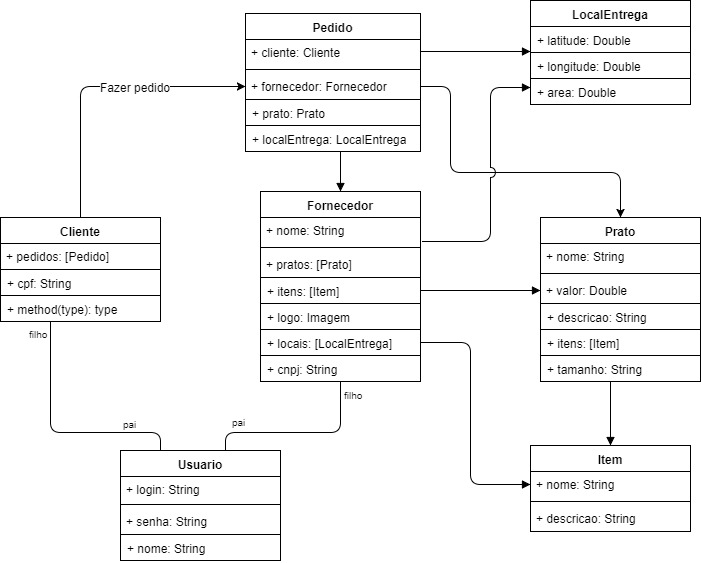
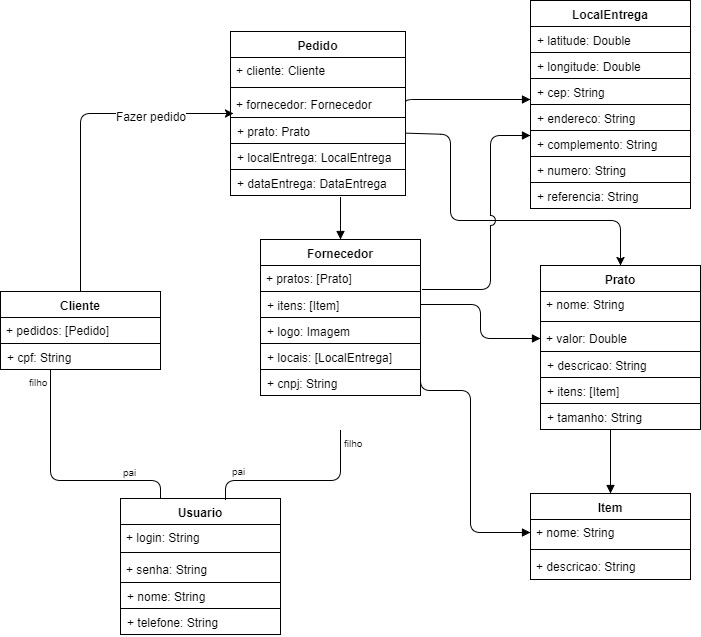
criação das classes e alteração no modelo

diff --git a/server/models/localEntregaModel.ts b/server/models/localEntregaModel.ts
@@ -1,0 +1,71 @@
+class LocalEntrega{
+ 	private _endereco:string;
+  private _cep:string;
+	private _referencia:string;
+	private _numero:string;
+	private _complemento:string;
+  private _latitude:double;
+	private _longitude:double;
+	
+  constructor (_endereco:string,_cep:string,_referencia:string,_numero:string,_complemento:string,_latitude:double,_longitude:double){
+    this._endereco = _endereco;
+    this._cep = _cep;
+    this._referencia = _referencia;
+    this._numero = _numero;
+    this._complemento = _complemento;
+    this._latitude = _latitude;
+    this._longitude = _longitude;
+    
+  }
+
+	get endereco() : string{
+    return this._endereco;
+  }
+
+	set endereco(e : string){
+   this._endereco = e; 
+  }
+  
+	get cep(): string {
+  	return this._cep;
+  }
+
+	set cep(_cep:string){
+  	this._cep=_cep;
+  }
+
+	get referencia(): string {
+  	return this._referencia;
+  }
+
+	set referencia(_referencia:string){
+  	this._referencia=_referencia;
+  }
+
+	get numero() : string{
+    return this._numero;
+  }
+
+	set numero(e : string){
+   this._numero = e; 
+  }
+    
+	get complemento(): string{
+  	return this._complemento;
+  }
+	set complemento(_complemento:string){
+  	this._complemento=_complemento;
+  }
+  get latitude(): string{
+  	return this._latitude;
+  }
+	set latitude(_latitude:string){
+  	this._latitude=_latitude; 
+  }
+	get longitude(): string{
+  	return this._longitude;
+  }
+	set longitude(_longitude:string){
+  	this._longitude=_longitude;
+  }  
+}

diff --git a/server/models/pedidoModel.ts b/server/models/pedidoModel.ts
@@ -1,0 +1,64 @@
+import Cliente from 'clienteModel'
+import Fornecedor from 'fornecedorModel'
+import Prato from 'pratoModel'
+import LocalEntrega from 'localEntregaModel'
+  
+class Pedido {
+  
+  private _cliente: Cliente;
+	private _fornecedor: Fornecedor;
+	private _prato: Prato;
+	private _localEntrega: LocalEntrega;
+	private _dataEntrega: string;
+
+	constructor(_cliente: Cliente, _fornecedor: Fornecedor, _prato: Prato
+                    , _localEntrega: LocalEntrega, _dataEntrega: string){
+    
+    this._cliente: _cliente;
+    this._fornecedor: _fornecedor;
+  	this._prato : _prato;
+    this._localEntrega : _localEntrega;
+    this._dataEntrega : _dataEntrega;
+  }
+  
+	set _cliente(_cliente: Cliente) {
+  	this._cliente = _cliente;
+  }
+
+	get _cliente() {
+  	return this._cliente;
+  }
+
+  
+  get fornecedor() : Fornecedor{
+  	return this._fornecedor;
+  }
+
+	set fornecedor(f : Fornecedor){
+  	this._fornecedor = f;
+  }
+
+  get prato(): [Prato]{
+  	return this._prato;
+  }
+
+	set prato(p : [Prato]){
+  	this._prato = p;
+  }
+
+	get localEntrega(): _localEntrega{
+  	return this._localEntrega;
+  }
+
+	set localEntrega(l : _localEntrega){
+  	this._localEntrega = l;
+  }
+
+	get dataEntrega(): _dataEntrega{
+  	return this._dataEntrega;
+  }
+
+	set dataEntrega(d : _dataEntrega){
+  	this._dataEntrega = d;
+  }
+}

diff --git a/server/models/fornecedorModel.ts b/server/models/fornecedorModel.ts
@@ -1,0 +1,64 @@
+import Usuario from 'usuarioModel'
+import Prato from 'pratoModel'
+import Item from 'itemModel'
+import LocalEntrega from 'localEntregaModel'
+
+class Fornecedor extends Usuario {
+  
+	private _pratos : [Prato];
+	private _itens : [Item];
+	private _logo : ImageView;
+	private _locais : [LocalEntrega];
+  private _cnpj : string;
+
+	constructor(_login: string, _senha: string, _nome: string, _telefone: string, _pratos: [Prato]
+                      , _itens: [Item], _logo: ImageView, _locais: [LocalEntrega], _cnpj : string){
+  	super(_login, _senha, _nome, _telefone);
+    this._pratos = _pratos;
+    this._itens = _itens;
+    this._logo = _logo;
+    this._locais = _locais;
+    this._cnpj = _cnpj;
+  }
+
+	get pratos(): [Prato] {
+  	return this._pratos;
+  }
+
+	set pratos(p : [Prato]) {
+  	this._pratos = p;
+  }
+
+	get itens(): [Item] {
+  	return this._itens;
+  }
+
+	set itens(i : [Item]) {
+  	this._itens = i;
+  }
+
+	get logo(): string {
+  	return this._logo;
+  }
+
+	set logo(l : string) {
+  	this._logo = l;
+  }
+
+	get locais(): [LocalEntrega] {
+  	return this._locais;
+  }
+
+	set locais(l : [LocalEntrega]) {
+  	this._locais = l;
+  }
+
+	get cnpj(): string {
+  	return this._cnpj;
+  }
+
+	set cnpj(c : string) {
+  	this._cnpj = c;
+  }
+
+}

diff --git a/server/models/pratoModel.ts b/server/models/pratoModel.ts
@@ -1,0 +1,56 @@
+class Prato{
+	private _nome : string;
+	private _valor : double;
+	private _descricao : string;
+	private _itens : [Item];
+	private _tamanho : string;
+
+	constructor(_nome: string, _valor : double, _descricao : string, _itens : [Item], _tamanho : string ){
+  	this._nome=_nome;
+    this._valor = _valor;
+    this._descricao = _descricao;
+    this._itens = [Item];
+    this._tamanho = _tamanho;
+  }
+
+	get nome(): string {
+  	return this._nome;
+  }
+
+	set nome(n : string) {
+  	this._nome = n;
+  }
+
+	get valor(): int {
+  	return this._valor;
+  }
+
+	set valor(c : int) {
+  	this._valor = c;
+  }
+
+	get descricao(): string {
+  	return this._descricao;
+  }
+
+	set descricao(d : string) {
+  	this._descricao = d;
+  }
+
+	get itens(): [Item] {
+  	return this._itens;
+  }
+
+	set itens(i : [Item]) {
+  	this._itens = i;
+  }
+
+	get tamanho(): string {
+  	return this._tamanho;
+  }
+
+	set tamanho(n : string) {
+  	this._tamanho = n;
+  }
+
+}

diff --git a/server/models/usuarioModel.ts b/server/models/usuarioModel.ts
@@ -1,0 +1,46 @@
+abstract class Usuario {
+	private _login : string;
+	private _senha : string;
+	private _nome : string;
+	private _telefone : string;
+
+	constructor(_login: string, _senha: string, _nome: string, _telefone: string) {
+		this._senha = _senha;
+    this._login = _login;
+    this._telefone = _telefone;
+    this._nome = _nome;
+	}
+
+	get login(): string {
+  	return this._login;
+  }
+
+	set login(l : string) {
+  	this._login = l;
+  }
+
+	get senha(): string {
+  	return this._senha;
+  }
+
+	set senha(s : string) {
+  	this._senha = s;
+  }
+
+	get nome(): string {
+  	return this._nome;
+  }
+
+	set nome(n : string) {
+  	this._nome = n;
+  }
+
+	get telefone(): string {
+  	return this._telefone;
+  }
+
+	set telefone(t : string) {
+  	this._telefone = t;
+  }
+
+}

diff --git a/server/models/clienteModel.ts b/server/models/clienteModel.ts
@@ -1,0 +1,29 @@
+import Usuario from 'usuarioModel'
+import Pedido from 'pedidoModel'
+
+class Cliente extends Usuario {
+  private _cpf : string;
+	private _pedido : [Pedido];
+	
+	constructor(_login: string, _senha: string, _nome: string, _telefone: string, _cpf: string, _pedido: [Pedido]){
+		super(_login, _senha, _nome, _telefone);
+		this._cpf = _cpf;
+		this._pedido = _pedido;
+	}
+
+	get cpf() : string {
+		return this._cpf;
+	}
+
+	set cpf(c : string) {
+		this._cpf = c;
+	}
+
+	get pedido() : [Pedido]{
+		return this._pedido;
+	}
+
+	set pedido(p : [Pedido]){
+		this._pedido = p;
+	}
+}

diff --git a/server/models/itemModel.ts b/server/models/itemModel.ts
@@ -1,0 +1,26 @@
+class Item {
+	private _nome: string;
+	private _descricao: string;
+	
+	constructor(_nome: string, _descricao : string){
+  	this._nome=_nome;
+    this._descricao = _descricao;
+  }
+
+	get nome(): string {
+  	return this._nome;
+  }
+
+	set nome(n : string) {
+  	this._nome = n;
+  }
+
+	get descricao(): string {
+  	return this._descricao;
+  }
+
+	set descricao(d : string) {
+  	this._descricao = d;
+  }
+
+}
